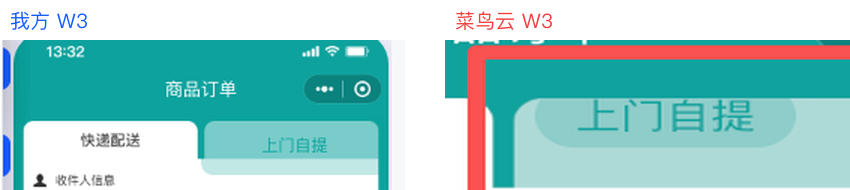
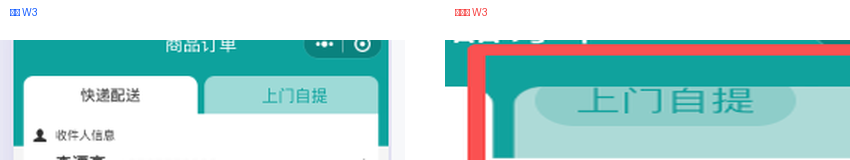
上门自提改用素材挖空+z0底层补浅青+文字居中（去掉套叠的tab）；AGENTS.md更正上门自提实现结论

diff --git a/web-admin/src/views/customer/apps/design/DesignHome.vue b/web-admin/src/views/customer/apps/design/DesignHome.vue
@@ -229,9 +229,11 @@
             <div class="ds-preview-head" :style="dsHeadStyle()">商品订单</div>
             <div class="ds-preview-ov">
               <span class="ds-ov" :style="{ top: '52px', left: '0', width: '100%', height: '55px', background: style.primaryColor }"></span>
+              <!-- 上门自提选中 tab 底色：素材右半为半透明挖空，z0 补主题色浅青由素材透出（不另套 tab 形状） -->
+              <span class="ds-ov" :style="{ top: '60px', left: '50%', width: '50%', height: '26px', background: hexA(style.primaryColor, 0.25), borderRadius: '8px' }"></span>
             </div>
-            <!-- 上门自提 tab：浅青圆角矩形选中态 + 主色文字居中（与素材"快递配送" tab 并排各占半宽；菜鸟云 1:1） -->
-            <span class="ds-ziti" :style="{ color: style.primaryColor, background: hexA(style.primaryColor, 0.25) }">上门自提</span>
+            <!-- 上门自提文字：主色、居中于素材自带 tab（无背景，菜鸟云 1:1） -->
+            <span class="ds-ziti" :style="{ color: style.primaryColor }">上门自提</span>
             <!-- 提交订单（主色实底圆角按钮，底部右侧） -->
             <span class="ds-submit" :style="{ background: style.primaryColor, color: '#fff' }">提交订单</span>
           </div>
@@ -1126,16 +1128,16 @@ onMounted(() => {
 .ds-btns { position: absolute; z-index: 3; bottom: 14px; right: 6px; display: flex; overflow: hidden; border-radius: 11px; }
 .ds-cart { height: 22px; padding: 0 4px; font-size: 9px; font-weight: 400; line-height: 22px; text-align: center; white-space: nowrap; box-sizing: border-box; }
 .ds-buy { height: 22px; padding: 0 4px; font-size: 9px; font-weight: 400; line-height: 22px; text-align: center; white-space: nowrap; box-sizing: border-box; }
-/* 上门自提 tab：浅青圆角矩形选中态 + 主色文字居中（占窗右半，与素材"快递配送"左半 tab 并排；菜鸟云 1:1） */
+/* 上门自提文字：主色、居中于素材自带半透明 tab（无背景，不另套 tab；菜鸟云 1:1） */
 .ds-ziti {
   position: absolute; z-index: 3;
   left: 50%; width: 50%;
-  top: 56px; height: 40px;
+  top: 60px; height: 26px;
   display: flex; align-items: center; justify-content: center;
   box-sizing: border-box;
-  border-radius: 8px;
-  font-size: 11px; line-height: 40px;
+  font-size: 11px; line-height: 26px;
   text-align: center;
+  white-space: nowrap;
 }
 /* 提交订单：主色实底圆角按钮（底部右部，菜鸟云距右 ~39px） */
 .ds-submit { position: absolute; z-index: 3; bottom: 14px; right: 30px; width: 80px; height: 24px; border-radius: 8px; font-size: 12px; line-height: 24px; text-align: center; box-sizing: border-box; }

diff --git a/AGENTS.md b/AGENTS.md
@@ -840,7 +840,7 @@ npm run test:frontend
 - **背景图素材与动态元素分离**：W2 **邀请区圆形人物头像组**、W2 **已售300份**（纯主色文字 + 主色火焰图标在文字**上方**，无胶囊背景）、W2 **推荐/新品/热卖/促销/限量 标签行**（白底浅青描边圆角）、W2 **加入购物车/立即购买左右无缝合成一个整体胶囊**（左半 `rgba(primaryColor,0.25)` 浅青底 + 主色字，右半主色渐变底 + 白字，整体 `border-radius` 胶囊、`overflow:hidden`）、W2 **邀请好友一起抢**（浅青渐变胶囊 `linear-gradient(90deg, rgba(primary,0.25), rgba(primary,0.5))` + 主色字）、W3 **上门自提**（**纯主色文字，无胶囊背景**，与「快递配送」素材灰字同水平）、W3 **提交订单按钮**（主色实底圆角）均为菜鸟云**动态覆盖元素**（不在 PNG 素材内）——定位必须查对标 DOM/截图实测（`.choose_*` 类名/rect 或 PIL 采样色值），素材裁剪区为空白/原文字即证明是动态层。
 - **❌ 已证伪（勿再犯）**：① 菜鸟云 **W1 商品列表没有「+」加购按钮**（商品卡只有名称/描述/价格，无任何加购按钮）；上一版误加 `.ds-add` 主色圆+白加号（窗内 308,218）属想当然添加，用户红框圈出即为多余元素，**已删除**。任何动态元素是否存在于对标系统，必须先在对标真实页面/截图中证实，禁止按"电商商品卡应有加购"的常识推断。② **已售300份不是浅青标签**、**上门自提不是浅青选中胶囊**（上上轮 PIL 采样误判为 `rgba(primary,0.25)` 底 + 主色字，用户 4 红框纠正：两者均**无背景纯文字/图标**形态）——采样式结论必须再经**用户红框验收**交叉确认，不能只信单次 PIL 采样。
 - **层级规则补充**：覆盖层在背景图**之下**（z0），但**盖在背景图不透明区之上的动态元素**（头像组、已售300份、标签行、合成双按钮、邀请胶囊、上门自提、提交订单）必须独立 `z-index: 3`，不能放进 z0 覆盖层（会被背景图盖住而"看不见"——本轮 5 处红框缺内容的根因正是这些元素误放 z0）。
-- **颜色实测色值（菜鸟云 stylediy 用户图 4 红框定案 + 用户三轮配色角色纠正 + 上门自提 tab 纠正）**：上门自提 = **浅青圆角矩形选中 tab（`rgba(primary,0.25)` 底 + 主色文字居中）**，占窗右半（`left:50%;width:50%;height:40px;flex center`），与素材「快递配送」左半 tab 同行并排（**不是纯文字 right 浮动**——用户纠正"没有在选项卡居中"，裁 8 倍放大菜鸟云图确认 tab 有浅青圆角底）；加入购物车 = **辅助颜色 `secondaryColor` 实色底 + 文字辅色 `subTextColor` 字**（非半透明浅青，用户纠正"辅助颜色"）；立即购买 = **主题颜色 `primaryColor` 纯色底 + 白字**（非渐变，用户纠正"主题颜色"）；邀请胶囊 = **主题色→渐变 `linear-gradient(90deg, primaryColor, gradientColor)` 实色渐变底 + 白字**（非浅青半透明渐变，用户纠正"主题颜色和渐变颜色组成的"）；提交订单 = 主色实底 + 白字圆角；已售300份 = **纯主色文字 + 主色火焰图标在文字上方（flex column）**；标签行 = 白底 + 主色浅青描边 + 主色文字。
+- **颜色实测色值（菜鸟云 stylediy 用户图 4 红框定案 + 用户三轮配色角色纠正 + 上门自提 tab 纠正）**：上门自提 = **素材自带半透明挖空 tab**（右半 y180-258 素材=窗内 60-86px，`z0` 层补 `rgba(primary,0.25)` 浅青圆角底由素材透出，**不另套 tab 形状**——用户纠正"底图是有选项卡透明度的，你是加多了一个选项卡套上去了吧"）+ **主色文字居中**（`.ds-ziti` 纯文字无背景，窗内 top60/高26/flex center），与素材「快递配送」左半 tab 同行并排；加入购物车 = **辅助颜色 `secondaryColor` 实色底 + 文字辅色 `subTextColor` 字**（非半透明浅青，用户纠正"辅助颜色"）；立即购买 = **主题颜色 `primaryColor` 纯色底 + 白字**（非渐变，用户纠正"主题颜色"）；邀请胶囊 = **主题色→渐变 `linear-gradient(90deg, primaryColor, gradientColor)` 实色渐变底 + 白字**（非浅青半透明渐变，用户纠正"主题颜色和渐变颜色组成的"）；提交订单 = 主色实底 + 白字圆角；已售300份 = **纯主色文字 + 主色火焰图标在文字上方（flex column）**；标签行 = 白底 + 主色浅青描边 + 主色文字。
 - **配色验收防呆（用户要求）**：浏览器实测/对比图验收时**必须切自定义高对比配色**（如 主题 #FF4D00/渐变 #B3123E/辅助 #FFE066），不要用青蓝等色相相近的预设——半透明浅青与渐变在主色系相近时肉眼难辨，容易误判"改了没用/用错角色"，高对比下三处角色（辅助色/纯主题/渐变）一目了然。改色走 UI：点「自定义」→ 逐个 `.pc-hex-input` 填 hex（native setter + input 事件）→ 点 `.pc-btn-primary` 确定。
 - **合成按钮防重叠**：W2 素材底部导航图标（返回首页/购物车/收藏）窗内 x ≈ 45-143，动态合成胶囊必须右移贴窗右缘（right 6px、字号 9px、每半 padding 0 4px，整体宽约 97px）避开收藏图标（x 129-143），否则文字会盖住素材图标（用户红框 4：加入购物车文字与前面图重叠）。
 - **位置换算防呆**：OCR 输出的 box 是独立坐标系，**不能直接按千分比换算回原图像素**（曾据此误判按钮位置）；以浏览器 DOM getBoundingClientRect（真实像素）+ 并排缩放对比图（我方 vs 对标裁窗缩到同高）逐区核对为准；动态元素是否贴窗右缘以**实测素材图标边界 + 用户红框验收**为准，不写死固定值。
